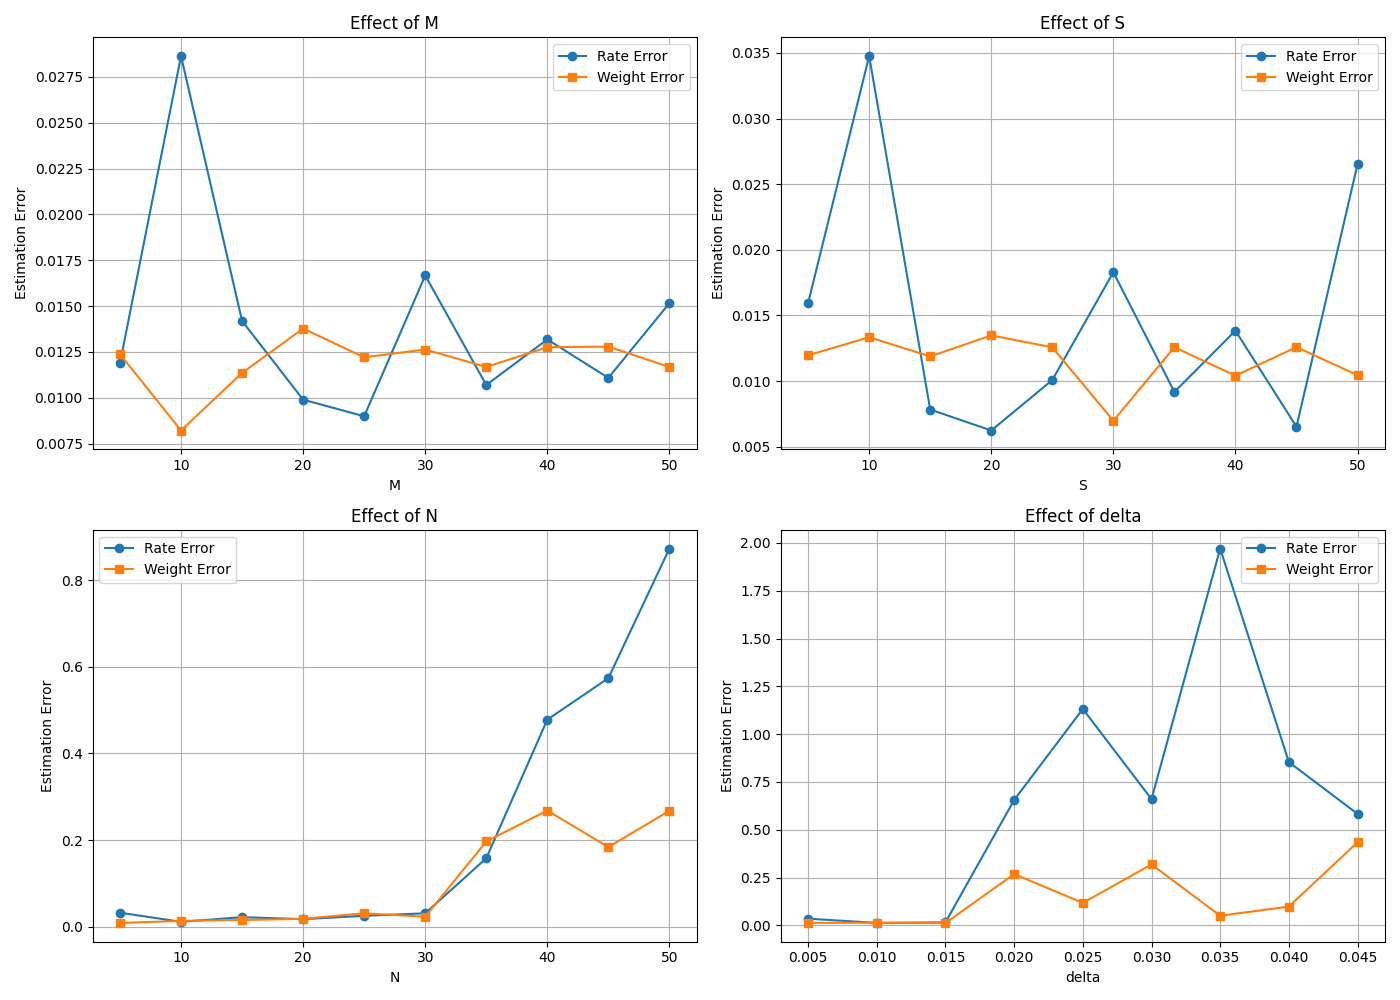
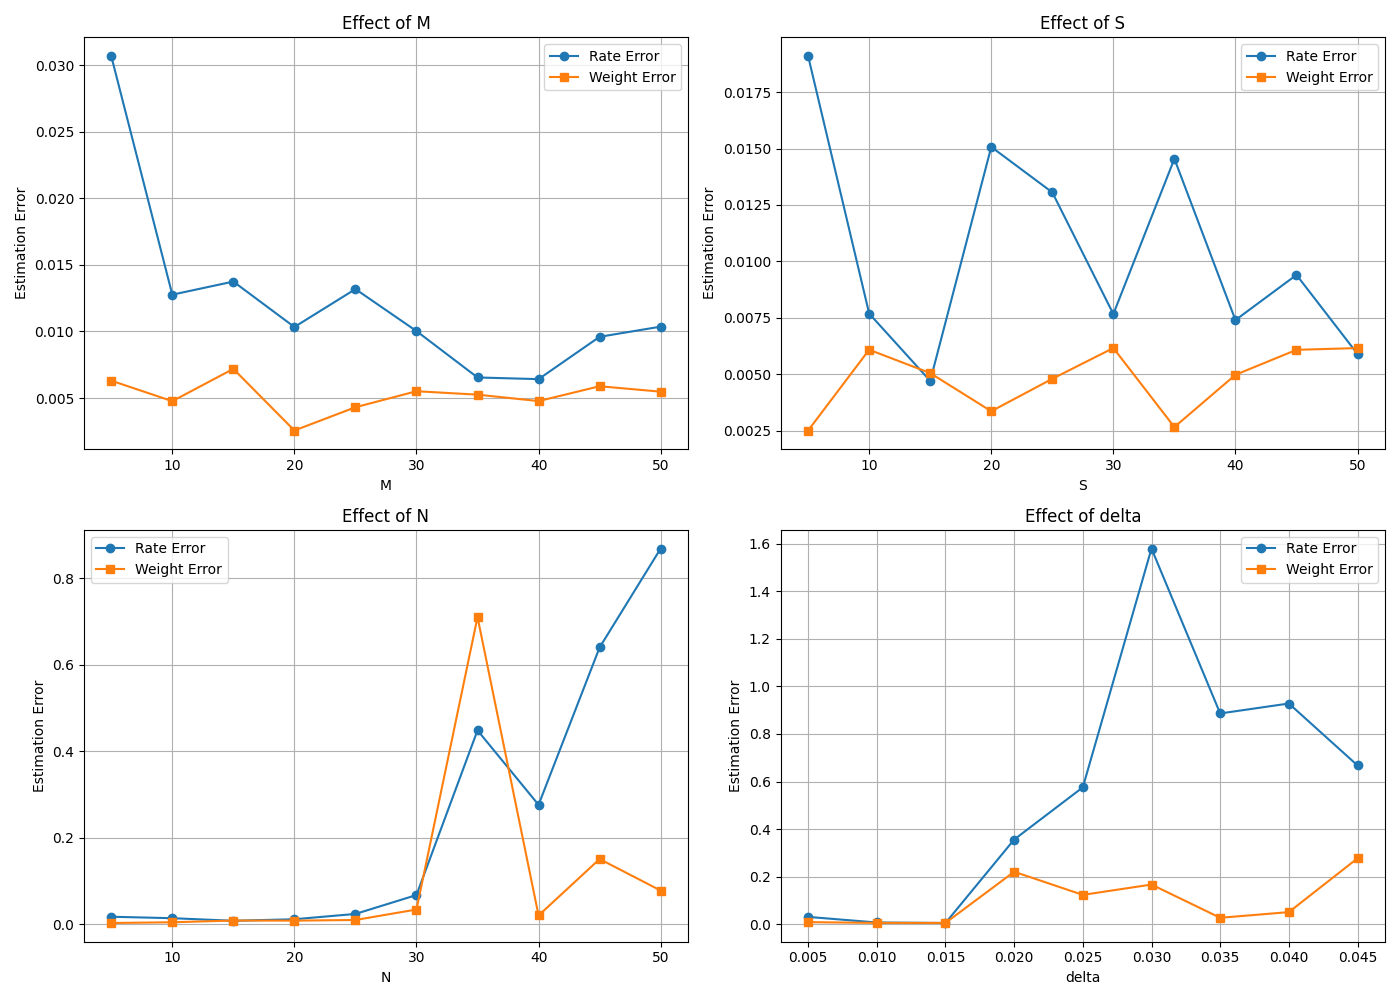
changed dimensions of the A matrix

diff --git a/script/evaluate_parameters.py b/script/evaluate_parameters.py
@@ -42,7 +42,6 @@ def evaluate_parameters():
     # Ground truth parameters
     A = np.array([
         [100, 1],
-        [1,  100],
         [1,  100]
     ])
     z_1 = np.array([[1], [0]]) 
